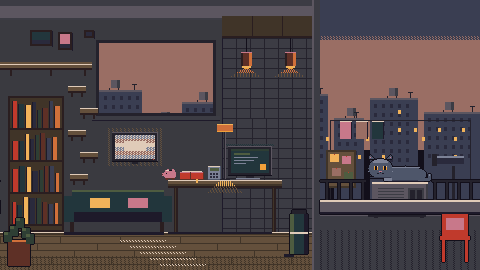
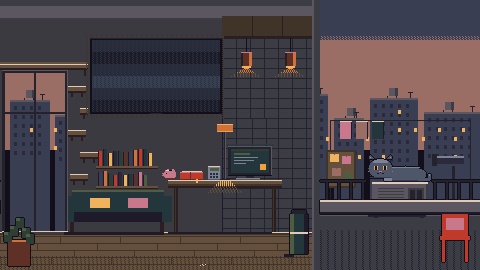
Update the live alivelog room page.
Replace alivelog-room with the five uploaded files, including sheer and drape images.

diff --git a/alivelog-room/index.html b/alivelog-room/index.html
@@ -1,46 +1,77 @@
 <!doctype html><html lang="zh-Hant"><head><meta charset="utf-8">
 <meta name="viewport" content="width=device-width,initial-scale=1">
-<title>alivelog 頂樓房．新聞電視</title>
+<title>alivelog 頂樓房</title>
 <style>
 html,body{margin:0;height:100%;background:#120f1a;overflow:hidden}
-#stage{position:absolute;width:480px;height:270px;background:url(room_dusk.png) no-repeat;background-size:100% 100%;image-rendering:pixelated}
-#tv{position:absolute;border:0;background:#000}
-#tv.big{z-index:5}
-#zoom{position:absolute;z-index:6;font:14px sans-serif;background:#24222c;color:#f0b25a;border:2px solid #f0b25a;padding:4px 10px;cursor:pointer}
+.px{position:absolute;image-rendering:pixelated;background-repeat:no-repeat}
+#stage{background-image:url(room_dusk.png);background-size:100% 100%}
+#win{position:absolute;cursor:grab;touch-action:none}
+#win .px{top:0;height:100%;background-size:auto 100%}
+/* 用 steps() 讓收合寬度一格一格跳，維持像素格 */
+#sheer{left:0;background-image:url(sheer.png)}
+.ready #sheer{transition:width .9s steps(12)}
+#dl{left:0;background-image:url(drape_l.png)}
+.ready #dl{transition:width .7s steps(10)}
+#dr{right:0;background-image:url(drape_r.png);background-position:right top}
+.ready #dr{transition:width .7s steps(10)}
+#tv{position:absolute;background:#000}
+#tv.big{z-index:5;box-shadow:0 0 0 100vmax rgba(10,8,16,.75)}
+#hit{position:absolute;inset:0;z-index:2;cursor:zoom-in}
+#tv.big #hit{display:none}
+#tv iframe{position:absolute;inset:0;width:100%;height:100%;border:0}
 </style></head><body>
-<div id="stage"></div><div id="tv"><div id="player"></div></div>
-<button id="zoom" type="button">放大播放</button>
+<div id="stage" class="px"></div>
+<div id="win"><div id="sheer" class="px"></div><div id="dl" class="px"></div><div id="dr" class="px"></div></div>
+<div id="tv"><div id="player"></div><div id="hit" title=""></div></div>
 <script>
-// 電視螢幕在 480x270 底圖中的像素座標（final2.py：R(M,115,135,40,24)）
-const SCREEN={x:115,y:135,w:40,h:24};
-const VIDEO_ID='ylYJSBUgaMA';                 // 民視新聞 24 小時直播
-const CHANNEL_ID='UC2VmWn8dAqkzlQqvy02E1PA';  // 民視新聞網 @FTV_News
-let big=false,player,usedFallback=false;
-const stage=document.getElementById('stage'),tv=document.getElementById('tv'),zoom=document.getElementById('zoom');
+// 底圖 480x270 的像素座標（final3.py）
+const SCREEN={x:92,y:40,w:128,h:72};      // 大電視螢幕
+const WIN={x:5,y:73,w:60,h:158};          // 落地窗開口（窗簾圖層同尺寸）
+const VIDEO_ID='ylYJSBUgaMA';              // 民視新聞 24 小時直播
+const CHANNEL_ID='UC2VmWn8dAqkzlQqvy02E1PA';// 民視新聞網 @FTV_News
+const $=id=>document.getElementById(id);
+let s=1,big=false,player,usedFallback=false;
+// 窗簾狀態：0 全關、1 灰簾拉開（白紗還在）、2 全開
+let curtain=0;
 function layout(){
-  const s=Math.max(1,Math.floor(Math.min(innerWidth/480,innerHeight/270)));   // 只用整數倍
+  s=Math.max(1,Math.floor(Math.min(innerWidth/480,innerHeight/270)));
   const ox=Math.floor((innerWidth-480*s)/2),oy=Math.floor((innerHeight-270*s)/2);
-  Object.assign(stage.style,{left:ox+'px',top:oy+'px',width:480*s+'px',height:270*s+'px'});
+  const box=(el,r)=>Object.assign(el.style,{left:r.x+'px',top:r.y+'px',width:r.w+'px',height:r.h+'px'});
+  box($('stage'),{x:ox,y:oy,w:480*s,h:270*s});
+  box($('win'),{x:ox+WIN.x*s,y:oy+WIN.y*s,w:WIN.w*s,h:WIN.h*s});
+  const half=WIN.w/2, gather=4;                 // 收起後每邊剩 4 格寬
+  const pc=n=>(n/WIN.w*100)+'%';
+  $('dl').style.width=pc(curtain>=1?gather:half);
+  $('dr').style.width=pc(curtain>=1?gather:half);
+  $('sheer').style.width=pc(curtain>=2?gather:WIN.w);
   let r;
-  if(big){const w=Math.min(innerWidth*.9,innerHeight*.9*16/9);r={x:(innerWidth-w)/2,y:(innerHeight-w*9/16)/2,w,h:w*9/16};}
+  if(big){const w=Math.min(innerWidth*.9,innerHeight*.9*16/9);r={x:(innerWidth-w)/2,y:(innerHeight-w*9/16)/2,w,h:w*9/16}}
   else r={x:ox+SCREEN.x*s,y:oy+SCREEN.y*s,w:SCREEN.w*s,h:SCREEN.h*s};
-  Object.assign(tv.style,{left:r.x+'px',top:r.y+'px',width:r.w+'px',height:r.h+'px'});
-  const f=tv.querySelector('iframe');if(f){f.width=r.w;f.height=r.h;f.style.width=r.w+'px';f.style.height=r.h+'px'}
-  zoom.style.left=(big?r.x+r.w-90:ox+SCREEN.x*s)+'px';
-  zoom.style.top=(big?r.y-36:oy+(SCREEN.y+SCREEN.h+4)*s)+'px';
+  box($('tv'),r);
 }
-function fallback(){ // 影片 ID 換掉時：改用頻道的 live_stream 嵌入
+function setCurtain(c){$('win').classList.add('ready');clearTimeout(setCurtain.t);setCurtain.t=setTimeout(()=>$('win').classList.remove('ready'),1000);curtain=Math.max(0,Math.min(2,c));layout()}
+// 點擊：依序 灰簾開→白紗開→全關；拖曳：往外拉開、往內拉上
+let down=null;
+$('win').addEventListener('pointerdown',e=>{down=e.clientX;$('win').setPointerCapture(e.pointerId)});
+$('win').addEventListener('pointerup',e=>{
+  if(down===null)return;const dx=e.clientX-down;down=null;
+  if(Math.abs(dx)<6*s)setCurtain((curtain+1)%3);
+  else setCurtain(curtain+(Math.abs(dx)>0&&dx<0?1:-1)*(1)); // 向左拖＝拉開一層，向右拖＝拉上一層
+});
+// 電視：點螢幕放大（透明點擊層），放大後點擊層隱藏，可直接操作 YouTube；點其他地方縮回
+$('hit').addEventListener('click',e=>{e.stopPropagation();big=true;$('tv').classList.add('big');layout()});
+document.addEventListener('click',e=>{if(big&&!$('tv').contains(e.target)){big=false;$('tv').classList.remove('big');layout()}});
+function fallback(){ // 影片 ID 失效時改用頻道 live_stream
   if(usedFallback)return;usedFallback=true;
-  tv.innerHTML='<iframe id="ytf" src="https://www.youtube.com/embed/live_stream?channel='+CHANNEL_ID+'&autoplay=1&mute=1&playsinline=1" allow="autoplay; encrypted-media; picture-in-picture; fullscreen" allowfullscreen frameborder="0"></iframe>';
-  layout();
+  const f=document.createElement('iframe');
+  f.src='https://www.youtube.com/embed/live_stream?channel='+CHANNEL_ID+'&autoplay=1&mute=1&playsinline=1';
+  f.allow='autoplay; encrypted-media; picture-in-picture; fullscreen';f.allowFullscreen=true;
+  const old=$('tv').querySelector('iframe,#player');if(old)old.remove();
+  $('tv').insertBefore(f,$('hit'));
 }
-window.onYouTubeIframeAPIReady=function(){
-  player=new YT.Player('player',{videoId:VIDEO_ID,width:'100%',height:'100%',
-    playerVars:{autoplay:1,mute:1,playsinline:1,rel:0},
-    events:{onReady:layout,onError:fallback}});
-};
-const t=setTimeout(()=>{if(!player||!player.getIframe)fallback()},8000); // API 載不到也改用備用
-zoom.onclick=()=>{big=!big;tv.classList.toggle('big',big);zoom.textContent=big?'縮回電視':'放大播放';layout()};
+window.onYouTubeIframeAPIReady=()=>{player=new YT.Player('player',{videoId:VIDEO_ID,
+  playerVars:{autoplay:1,mute:1,playsinline:1,rel:0},events:{onError:fallback}})};
+setTimeout(()=>{if(!player||!player.getIframe)fallback()},8000);
 addEventListener('resize',layout);layout();
 </script>
 <script src="https://www.youtube.com/iframe_api"></script>
